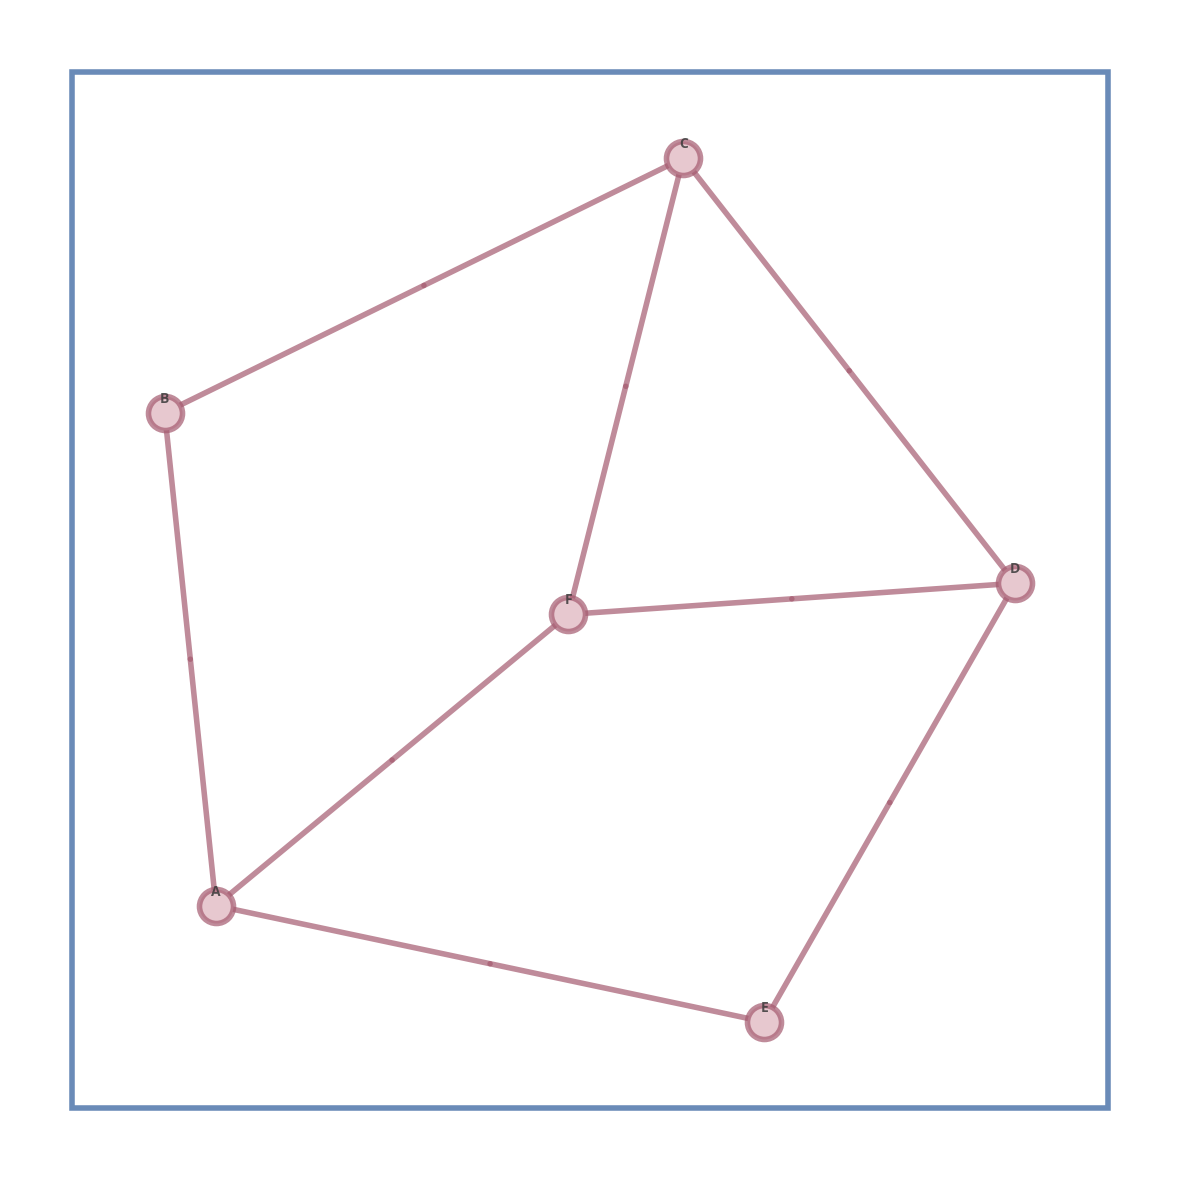
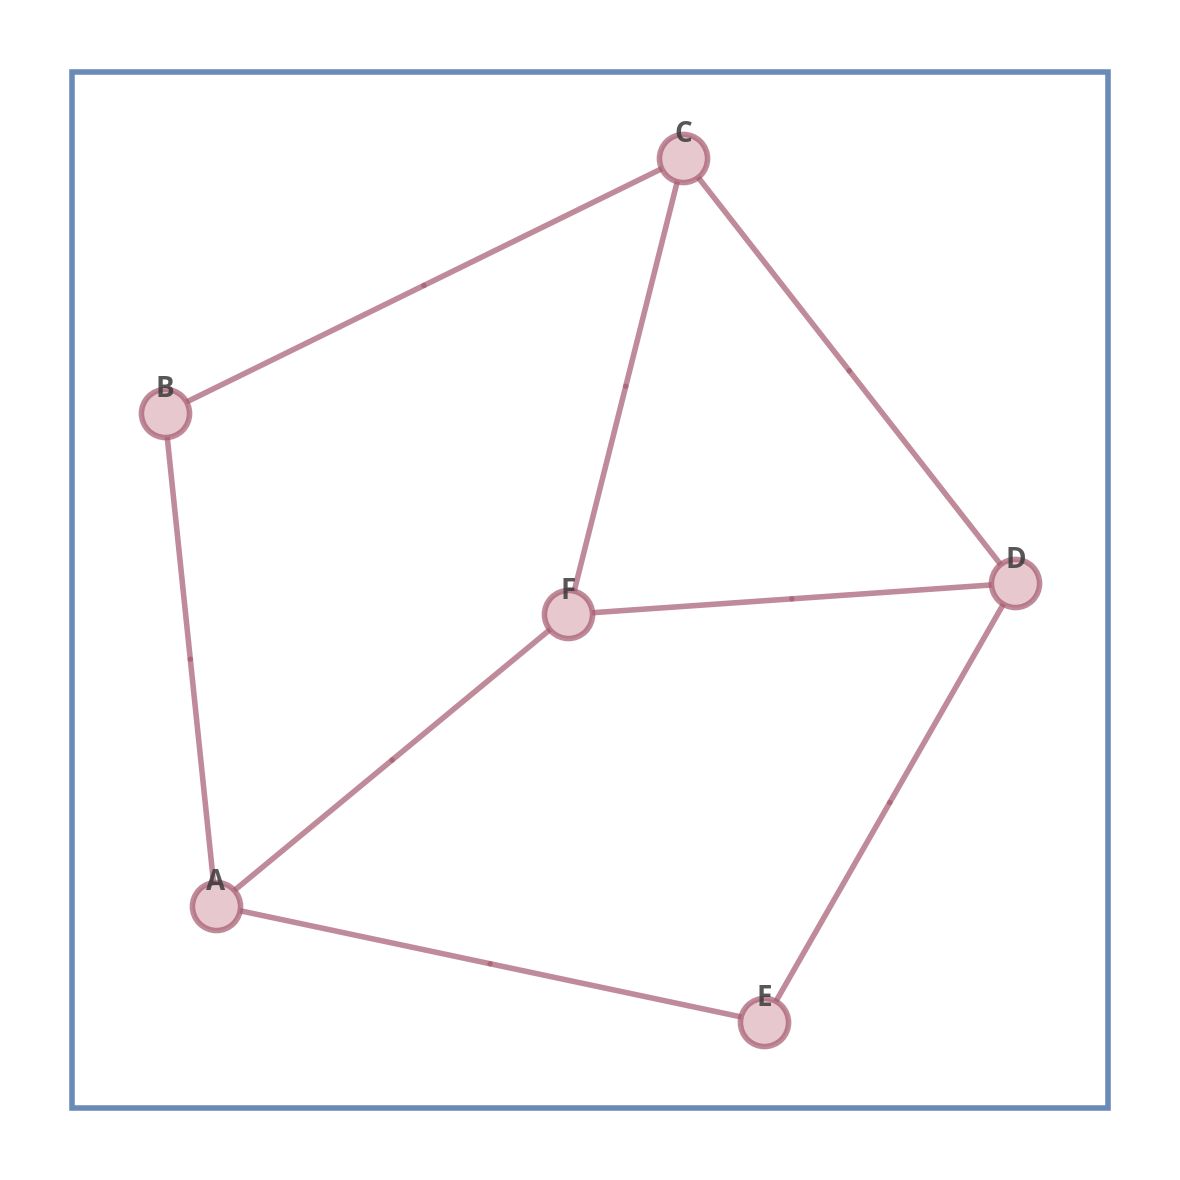
Further improvements to layout creator

diff --git a/map_rendering.py b/map_rendering.py
@@ -83,15 +83,93 @@ def point_in_polygon(point, polygon):
     return inside
 
 
-def outer_face_roundness_penalty(pos, outer_face_nodes):
+def node_angle_penalty(G, pos):
     """
-    Penalise deviation from a common radius around the outer-face centre.
+    Penalise uneven angular spacing of incident edges around each node.
+    Lower is better.
+    """
+    penalty = 0.0
+
+    for u in G.nodes():
+        neighbours = list(G.neighbors(u))
+        d = len(neighbours)
+
+        if d < 2:
+            continue
+
+        p = np.asarray(pos[u], dtype=float)
+
+        angles = []
+        for v in neighbours:
+            q = np.asarray(pos[v], dtype=float)
+            dx, dy = q - p
+            ang = math.atan2(dy, dx)
+            angles.append(ang)
+
+        angles.sort()
+
+        gaps = []
+        for i in range(d):
+            a1 = angles[i]
+            a2 = angles[(i + 1) % d]
+            gap = a2 - a1
+            if i == d - 1:
+                gap += 2 * math.pi
+            gaps.append(gap)
+
+        target = 2 * math.pi / d
+        penalty += sum((gap - target) ** 2 for gap in gaps)
+
+    return float(penalty)
+
+
+def outer_face_roundness_penalty(pos, outer_face_nodes, concavity_weight=5.0):
+    """
+    Penalise outer-face shapes that are uneven in radius and that contain
+    concave inward dents.
+
     Lower is better.
     """
     pts = np.array([pos[n] for n in outer_face_nodes], dtype=float)
+
+    # --------------------------------------------------
+    # 1. Existing radial-variance term
+    # --------------------------------------------------
     centre = pts.mean(axis=0)
     radii = np.linalg.norm(pts - centre, axis=1)
-    return float(np.var(radii))
+    radius_var = float(np.var(radii))
+
+    # --------------------------------------------------
+    # 2. New concavity penalty
+    #    Penalise turns that go the "wrong way" around the boundary
+    # --------------------------------------------------
+    area2 = 0.0
+    n = len(pts)
+    for i in range(n):
+        x1, y1 = pts[i]
+        x2, y2 = pts[(i + 1) % n]
+        area2 += x1 * y2 - x2 * y1
+
+    orientation = 1.0 if area2 >= 0 else -1.0
+
+    concavity_penalty = 0.0
+    for i in range(n):
+        p_prev = pts[(i - 1) % n]
+        p = pts[i]
+        p_next = pts[(i + 1) % n]
+
+        v1 = p - p_prev
+        v2 = p_next - p
+
+        cross_z = v1[0] * v2[1] - v1[1] * v2[0]
+
+        # If the signed turn disagrees with the polygon orientation,
+        # this is a concave kink. Penalise its magnitude.
+        bad_turn = -orientation * cross_z
+        if bad_turn > 0:
+            concavity_penalty += bad_turn
+
+    return radius_var + concavity_weight * concavity_penalty
 
 
 def extract_faces_from_embedding(primal_embedding):
@@ -221,14 +299,15 @@ def layout_score(G, pos, faces, weights=None, outer_face_nodes=None):
     """
     Higher is better.
     """
-    if weights is None:
-        weights = {
-            "node_spread": 1.0,
-            "edge_uniformity": 0.35,
-            "face_area": 0.8,
-            "angle_penalty": 0.15,
-            "outer_roundness": 0.0,
-        }
+    # if weights is None:
+    #     weights = {
+    #         "node_spread": 1.0,
+    #         "edge_uniformity": 0.35,
+    #         "face_area": 0.8,
+    #         "angle_penalty": 0.15,
+    #         "outer_roundness": 0.0,
+    #     }
+
     nodes = list(G.nodes())
     edges = list(G.edges())
 
@@ -272,18 +351,15 @@ def layout_score(G, pos, faces, weights=None, outer_face_nodes=None):
         mean_bounded_area = 0.0
 
     # --------------------------------------------------
-    # 4. Angle penalty: penalise skinny faces
+    # 4. Angle penalty: penalise uneven edge fans at nodes
     # --------------------------------------------------
-    angle_penalty = 0.0
-    for face in faces:
-        pts = [pos[n] for n in face]
-        min_ang = polygon_min_angle(pts)
-        if min_ang > 0:
-            angle_penalty += 1.0 / max(min_ang, 1e-6)
+    angle_penalty = node_angle_penalty(G, pos)
 
     outer_roundness_penalty = 0.0
     if outer_face_nodes is not None and len(outer_face_nodes) >= 3:
-        outer_roundness_penalty = outer_face_roundness_penalty(pos, outer_face_nodes)
+        outer_roundness_penalty = outer_face_roundness_penalty(
+            pos, outer_face_nodes, concavity_weight=weights.get("outer_concavity", 20.0)
+        )
 
     score = (
         weights["node_spread"] * min_node_dist
@@ -538,7 +614,6 @@ def assign_outer_square_ports(
             x_top = bx + t_top * dx
             if t_top > 0 and left <= x_top <= right:
                 candidates.append((t_top, (x_top, top)))
-
         if not candidates:
             ports[edge_id] = tuple(p_border)
         else:
@@ -1212,13 +1287,13 @@ def refine_primal_layout(
     else:
         fixed_nodes = set(fixed_nodes)
 
-    if weights is None:
-        weights = {
-            "node_spread": 1.0,
-            "edge_uniformity": 0.35,
-            "face_area": 0.8,
-            "angle_penalty": 0.15,
-        }
+    # if weights is None:
+    #     weights = {
+    #         "node_spread": 1.0,
+    #         "edge_uniformity": 0.35,
+    #         "face_area": 0.8,
+    #         "angle_penalty": 0.15,
+    #     }
 
     rng = random.Random(seed)
 
@@ -1390,6 +1465,9 @@ def get_visual_data(master_embedding, primal_pos, style=None):
     # ------------------------------------------------------------
     nodes = []
     for node_id, attrs in master_embedding["nodes"].items():
+        if node_id == outer_face_id:
+            continue
+
         nodes.append(
             {
                 "id": node_id,
@@ -1398,7 +1476,6 @@ def get_visual_data(master_embedding, primal_pos, style=None):
                 "label": attrs.get("label", str(node_id)),
             }
         )
-
     # ------------------------------------------------------------
     # 5. Build edge paths
     #    Everything is cubic: [start, control1, control2, end]
@@ -1545,7 +1622,7 @@ def get_visual_data(master_embedding, primal_pos, style=None):
             node_labels.append(
                 {
                     "text": attrs.get("label", str(node_id)),
-                    "xy": (x, y + style["region_label_offset_y"]),
+                    "xy": (x, y),
                     "node_id": node_id,
                     "type": "region",
                 }
@@ -1554,6 +1631,8 @@ def get_visual_data(master_embedding, primal_pos, style=None):
     if style["show_face_labels"]:
         for node_id, attrs in master_embedding["nodes"].items():
             if attrs["type"] != "face":
+                continue
+            if node_id == outer_face_id:
                 continue
 
             face_labels.append(
@@ -1688,6 +1767,7 @@ def draw_visual_data(visual_data, style=None):
     if style["show_node_labels"]:
         for label in visual_data.get("node_labels", []):
             x, y = label["xy"]
+            y = y + style["region_label_offset_y"]
 
             ax.text(
                 float(x),
@@ -1767,7 +1847,7 @@ def draw_visual_data(visual_data, style=None):
     return fig, ax
 
 
-def main(filename):
+def main(filename, weights):
     labels, matrix = read_adjacency_matrix_from_excel(filename)
     print("Labels:", labels)
     print("Matrix:\n", matrix)
@@ -1783,6 +1863,18 @@ def main(filename):
         print(u, list(primal_embedding.neighbors_cw_order(u)))
 
     master_embedding = build_master_embedding(primal_embedding)
+
+    for eid in ["e26", "e33"]:
+        edge = master_embedding["edges"][eid]
+        print(
+            eid,
+            "primal_edge =",
+            edge.get("primal_edge"),
+            "primal_halfedge =",
+            edge.get("primal_halfedge"),
+            "halfedge_sign =",
+            edge.get("halfedge_sign"),
+        )
 
     primal_pos = nx.combinatorial_embedding_to_pos(
         primal_embedding,
@@ -1801,13 +1893,17 @@ def main(filename):
     print("OUTER FACE ID:", outer_face_id)
     print("OUTER FACE NODES:", outer_face_nodes)
 
-    weights = {
-        "node_spread": 1.0,
-        "edge_uniformity": 0.1,
-        "face_area": 0.3,
-        "angle_penalty": 0.2,
-        "outer_roundness": 3.0,
-    }
+    if weights is None:
+        weights = {
+            "node_spread": 0.0,
+            "edge_uniformity": 0.0,
+            "face_area": 0.0,
+            "angle_penalty": 1.0,
+            "outer_roundness": 1.0,
+            "outer_concavity": 100.0,
+        }
+
+    print("WEIGHTS IN MAIN:", weights)
 
     primal_pos = refine_primal_layout(
         G,
@@ -1824,7 +1920,7 @@ def main(filename):
     )
 
     visual_data = get_visual_data(master_embedding, primal_pos, style=VIS_STYLE)
-    # print("Visual data:", visual_data)
+    print("Visual data:", visual_data)
 
     base_path = Path(filename)
     stem = base_path.stem
@@ -1856,7 +1952,7 @@ def main(filename):
             "fig3",
             {
                 "draw_primal_edges": True,
-                "draw_dual_edges": True,
+                "draw_dual_edges": False,
             },
             True,
         ),
@@ -1876,6 +1972,16 @@ def main(filename):
                 "border_node_size": 0,
                 "face_node_size": 0,
                 "region_label_offset_y": 0,
+            },
+            False,
+        ),
+        (
+            "fig6",
+            {
+                "draw_primal_edges": True,
+                "draw_dual_edges": True,
+                "border_node_size": 0,
+                "face_node_size": 0,
             },
             False,
         ),
@@ -1908,7 +2014,7 @@ VIS_STYLE = {
     # ------------------------------------------------------------
     "border_t": 0.5,
     "face_centroid_shrink": 0.88,
-    "region_label_offset_y": 3.5 * SCALE_PARAM,
+    "region_label_offset_y": 2 * SCALE_PARAM,
     "show_node_labels": True,
     "show_face_labels": False,
     "outer_curve_base": 0.00,
@@ -1988,7 +2094,17 @@ VIS_STYLE = {
 }
 
 
-PATH = "20260421-Test Pentagon.xlsx"
+PATH = "20260414-King is Dead Adjacency.xlsx"
+
+WEIGHTS = {
+    "node_spread": 0.0,
+    "edge_uniformity": 0.0,
+    "face_area": 0.0,
+    "angle_penalty": 5,
+    "outer_roundness": 0.0,
+    "outer_concavity": 0.0,
+}
+
 
 if __name__ == "__main__":
-    main(PATH)
+    main(PATH, WEIGHTS)
